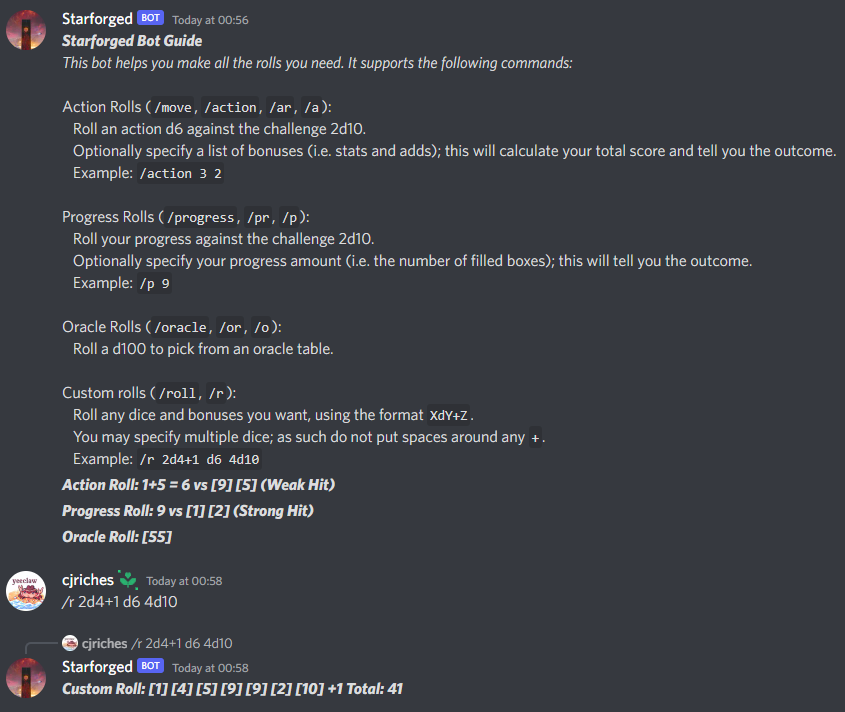
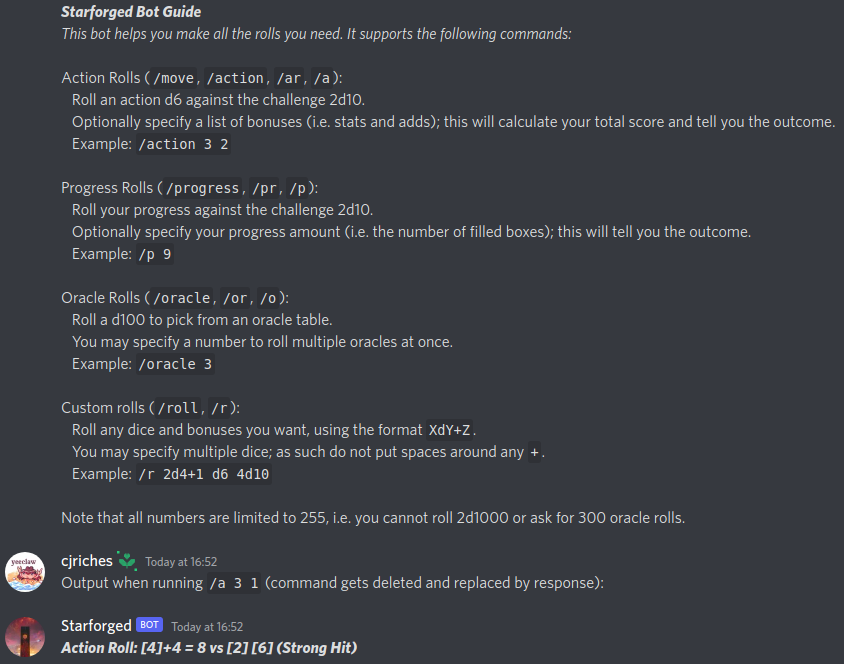
Updated help text.

Changed region(s): [[0.0, 0.0, 0.9858, 0.994]]

diff --git a/src/main.rs b/src/main.rs
@@ -233,11 +233,16 @@ filled boxes); this will tell you the outcome.
 
 Oracle Rolls (`/oracle`, `/or`, `/o`):
    Roll a d100 to pick from an oracle table.
+   You may specify a number to roll multiple oracles at once.
+   Example: `/oracle 3`
 
 Custom rolls (`/roll`, `/r`):
    Roll any dice and bonuses you want, using the format `XdY+Z`.
    You may specify multiple dice; as such do not put spaces around any `+`.
-   Example: `/r 2d4+1 d6 4d10`";
+   Example: `/r 2d4+1 d6 4d10`
+
+Note that all numbers are limited to 255, i.e. you cannot roll 2d1000 \
+or ask for 300 oracle rolls.";
 
     // Delete the message and respond to it.
     msg.delete(ctx).await?;
